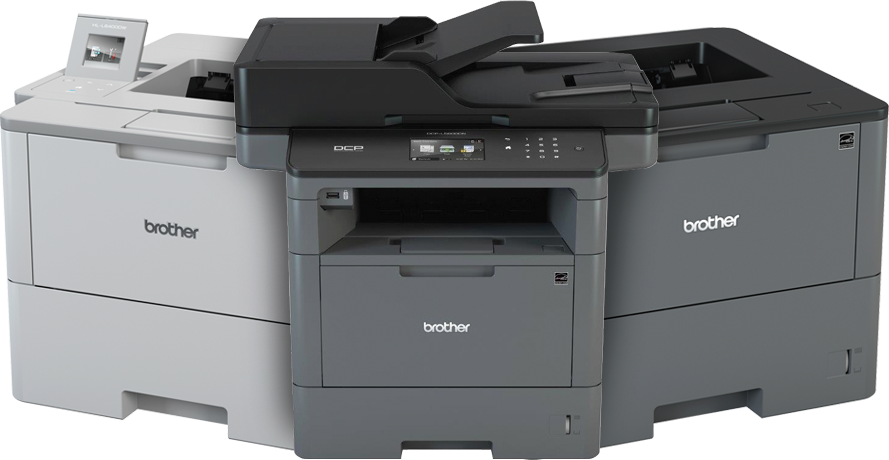
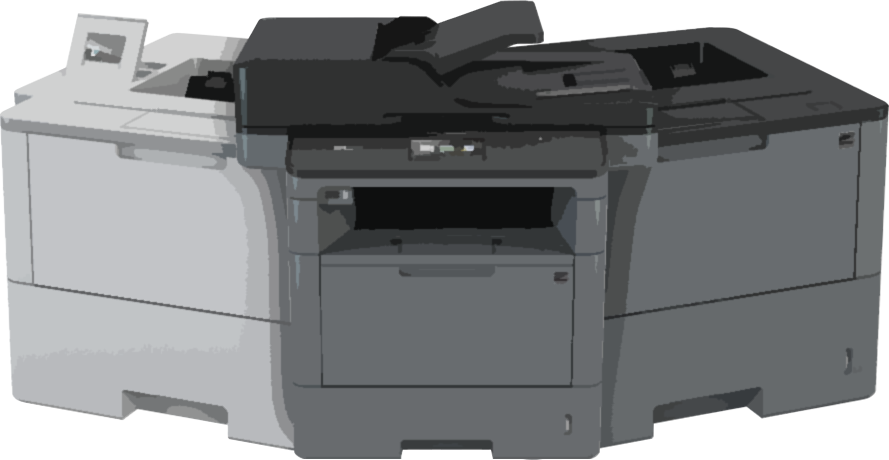
Otimização visual

diff --git a/index.html b/index.html
@@ -40,7 +40,7 @@
                     <p>Em vez de comprar e manter sua própria infraestrutura de impressão, as empresas optam por terceirizar essa função para um provedor especializado. Isso pode trazer uma série de benefícios, como redução de custos, aumento da eficiência operacional, acesso a tecnologia mais avançada e maior flexibilidade para lidar com picos de demanda ou necessidades sazonais.</p>
                     <p>A terceirização de impressão também pode incluir serviços adicionais, como monitoramento remoto dos equipamentos, gerenciamento de estoque de suprimentos, manutenção preventiva e até mesmo digitalização de documentos para armazenamento eletrônico. Esses serviços podem ser personalizados de acordo com as necessidades específicas de cada cliente.</p>
                 </div>
-                <img src="img/imp2.webp" alt="Impressoras">
+                <img src="img/imp2.png" alt="Impressoras">
             </div>
         </section>
         <section class="vantagens">

diff --git a/css/style.css b/css/style.css
@@ -130,19 +130,17 @@ h1{
     display: flex;
     width: 80%;
     flex-direction: row;
-    align-items: center;
-    justify-content: space-evenly;
 }
 
 .pimg img{
+    max-width: min-content;
+    padding: 10px;
     width: 50%;
 }
 
 .paragrafos-i{
     display: flex;
     flex-direction: column;
-    align-items: left;
-    justify-content: space-between;
 }
 
 .paragrafos p{
@@ -164,6 +162,7 @@ h1{
     font-size: 1.25rem;
     color: var(--principal-color);
     margin: 10px;
+    padding-right: 40px;
 }
 
 .paragrafos-v{
@@ -193,7 +192,7 @@ span{
 
 .v-icon{
     width: 10%;
-
+    margin-right: 15px;
 }
 
 footer {
